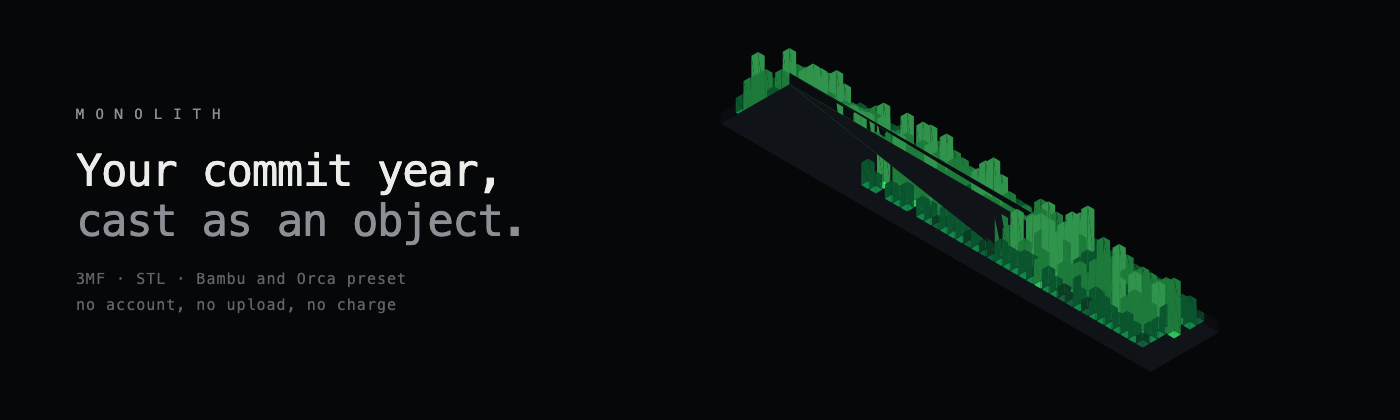
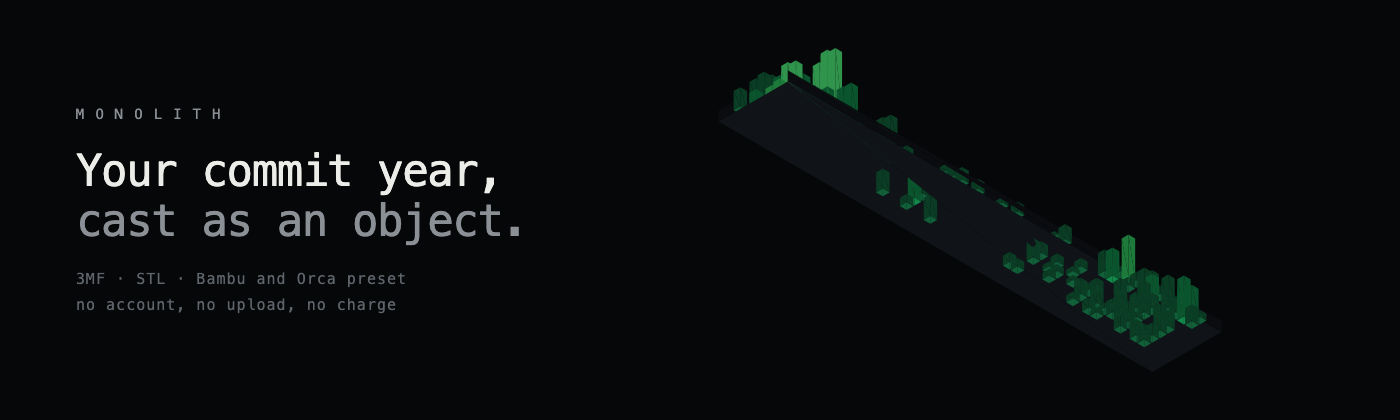
fix: draw every asset from the measured year, and write down what is broken
The demo and the landing quoted a print that does not exist. Both drew
syntheticYear(), an invented year with 2,586 contributions, while the captions
around them named the real one. That object is 40 g and six to nine hours; the
year the estimator was actually calibrated against is 22 g and four hours on a
stock 0.4 mm nozzle, which Bambu Studio confirms at 4h00 and 17.7 cm3 against
the estimator's 17.8.

The frozen year moves from test/fixtures to data/, and the banner, the share
card and the demo all build from it. The demo's log lines, dimensions and
print numbers are read off that object rather than typed in, so no rendered
image can claim a denser piece than the one that was sliced.

The README gains a roadmap that says plainly what does not work yet, starting
with multi colour: the 3MF splits the geometry per level but carries no
filament assignment at all, so two and four colour are a manual step in the
object list and the slot choice never reaches the model.

Changed region(s): [[0.5221, 0.1238, 0.86, 0.8357]]

diff --git a/remotion/Demo.tsx b/remotion/Demo.tsx
@@ -1,8 +1,8 @@
 import React, { useMemo } from "react";
 import { AbsoluteFill, Sequence, interpolate, useCurrentFrame, useVideoConfig } from "remotion";
-import { Monolith } from "./Monolith";
+import { Monolith, assetYear } from "./Monolith";
 import { buildMonolith, SIZES } from "../src/lib/build";
-import { syntheticYear } from "../src/lib/contributions";
+import { computeStats } from "../src/lib/contributions";
 import { printableParts } from "../src/lib/parts";
 import {
   estimate,
@@ -24,7 +24,6 @@ import type { Variant } from "../src/lib/types";
  * behaviour the app does not have.
  */
 
-const HANDLE = "noluyorAbi";
 const FPS = 30;
 const s = (seconds: number) => Math.round(seconds * FPS);
 
@@ -42,13 +41,21 @@ const FORMS: { variant: Variant; label: string; note: string }[] = [
   { variant: "spine", label: "SPINE", note: "weeks stacked along a rib" },
 ];
 
+/** Read off the object the video actually draws, never typed by hand. */
+const YEAR = assetYear();
+const HANDLE = YEAR.login;
+const MESH = buildMonolith(YEAR, { variant: "skyline", sizeMm: 180, label: true });
+const STATS = computeStats(YEAR);
+const NUM = (n: number) => n.toLocaleString("en-GB");
+const DIMS = `${MESH.size.x.toFixed(0)} x ${MESH.size.y.toFixed(0)} mm`;
+
 const LOG: [string, string][] = [
   ["resolving", HANDLE],
-  ["fetching", "365 days of 2025"],
-  ["found", "1,745 contributions"],
-  ["extruding", "4,608 triangles"],
+  ["fetching", `${YEAR.days.length} days of ${YEAR.year}`],
+  ["found", `${NUM(STATS.total)} contributions`],
+  ["extruding", `${NUM(MESH.triangles)} triangles`],
   ["welding", "base plate and signature"],
-  ["ready", "180 x 29 mm"],
+  ["ready", DIMS],
 ];
 
 /** The chrome every scene shares: wordmark, and a caption for what is on show. */
@@ -173,11 +180,10 @@ const Reveal: React.FC = () => {
   });
 
   return (
-    <Frame step="03 · OBJECT" caption="1,745 contributions · 365 days · 180 x 29 mm">
+    <Frame step="03 · OBJECT" caption={`${NUM(STATS.total)} contributions · ${YEAR.days.length} days · ${DIMS}`}>
       <div style={{ fontSize: 40, letterSpacing: -1 }}>{HANDLE}</div>
       <div style={{ marginTop: 8, fontSize: 15, letterSpacing: 4, color: DIM }}>2025 · SKYLINE</div>
       <Monolith
-        seed={HANDLE}
         reveal={reveal}
         width={width - 180}
         height={380}
@@ -198,7 +204,6 @@ const Forms: React.FC = () => {
       <Chips items={FORMS.map((f) => f.label)} activeIndex={index} />
       <Monolith
         key={form.variant}
-        seed={HANDLE}
         variant={form.variant}
         width={width - 200}
         height={400}
@@ -231,7 +236,7 @@ const Sizes: React.FC = () => {
           const tall = (size.mm / 260) * 250;
           return (
             <div key={size.id} style={{ opacity: i === index ? 1 : 0.24, textAlign: "center" }}>
-              <Monolith seed={HANDLE} width={tall * 1.7} height={tall} />
+              <Monolith width={tall * 1.7} height={tall} />
               <div style={{ fontSize: 14, letterSpacing: 3, color: i === index ? FOG : GHOST }}>
                 {size.mm} MM
               </div>
@@ -255,7 +260,6 @@ const Finishes: React.FC = () => {
       <Chips items={shown.map((p) => p.name.toUpperCase())} activeIndex={index} />
       <Monolith
         key={palette.id}
-        seed={HANDLE}
         palette={palette}
         width={width - 200}
         height={380}
@@ -267,11 +271,7 @@ const Finishes: React.FC = () => {
 
 const PrintSheet: React.FC = () => {
   const numbers = useMemo(() => {
-    const mesh = buildMonolith(syntheticYear(HANDLE, 2025), {
-      variant: "skyline",
-      sizeMm: 180,
-      label: true,
-    });
+    const mesh = MESH;
     const material = materialById("pla");
     const quality = qualityById("standard");
     const est = estimate(printableParts(mesh), material, quality);
@@ -373,7 +373,7 @@ const Close: React.FC = () => {
   return (
     <Frame step="09 · YOURS" caption="source available under PolyForm Noncommercial · models CC BY 4.0">
       <div style={{ display: "flex", alignItems: "center", justifyContent: "center", flex: 1 }}>
-        <Monolith seed={HANDLE} width={width - 320} height={300} />
+        <Monolith width={width - 320} height={300} />
       </div>
       <div style={{ fontSize: 30, letterSpacing: -0.5, marginBottom: 14 }}>
         Your commit year, <span style={{ color: DIM }}>cast as an object.</span>

diff --git a/remotion/Monolith.tsx b/remotion/Monolith.tsx
@@ -1,6 +1,8 @@
 import React, { useMemo } from "react";
 import { buildMonolith } from "../src/lib/build";
-import { syntheticYear } from "../src/lib/contributions";
+import { yearFromDays } from "../src/lib/contributions";
+import type { Day } from "../src/lib/types";
+import frozen from "../data/contributions-2025.json";
 import type { BuiltMesh, Variant } from "../src/lib/types";
 
 /**
@@ -60,8 +62,17 @@ function faces(mesh: BuiltMesh, reveal: number, palette: Palette): Face[] {
   return out.sort((a, b) => a.depth - b.depth);
 }
 
+/**
+ * The year every asset draws: noluyorAbi's real 2025, frozen in data/ and
+ * shared with the calibration test. Rendering an invented year here would put
+ * a denser object and a longer print time in front of people than the one the
+ * slicer was measured against.
+ */
+export function assetYear() {
+  return yearFromDays(frozen.login, frozen.year, frozen.days as Day[]);
+}
+
 export const Monolith: React.FC<{
-  seed: string;
   width: number;
   height: number;
   variant?: Variant;
@@ -70,11 +81,11 @@ export const Monolith: React.FC<{
   /** Defaults to the finish the viewer opens with. */
   palette?: Palette;
   style?: React.CSSProperties;
-}> = ({ seed, width, height, variant = "skyline", reveal = 1, palette, style }) => {
+}> = ({ width, height, variant = "skyline", reveal = 1, palette, style }) => {
   const finish = palette ?? defaultPalette();
   const mesh = useMemo(
-    () => buildMonolith(syntheticYear(seed, 2025), { variant, sizeMm: 180, label: false }),
-    [seed, variant],
+    () => buildMonolith(assetYear(), { variant, sizeMm: 180, label: false }),
+    [variant],
   );
 
   // The viewBox is fixed to the fully grown object so a rising animation does

diff --git a/src/components/Prompt.tsx b/src/components/Prompt.tsx
@@ -283,11 +283,13 @@ export function Prompt({
               </li>
             ))}
           </ul>
-          {/* The numbers the print sheet reports for the default object, so the
-            promise on the landing is the one the download keeps. */}
+          {/* Bambu Studio's own numbers for the 180 mm skyline of a real year,
+            0.4 nozzle, 0.16 mm, PLA: 4h00 and 17.7 cm3. Not the estimator's
+            output, and not an invented year, which is how this line first came
+            to read six hours. */}
           <p className="text-[0.72rem] leading-relaxed text-mute">
-            A 180 mm shelf piece is about six hours on a stock Bambu profile and
-            roughly one euro of filament.
+            A 180 mm shelf piece slices to about four hours and 22 g of filament
+            on a stock 0.4 mm Bambu profile. Roughly fifty cents.
           </p>
         </motion.div>
       </motion.div>

diff --git a/remotion/Banner.tsx b/remotion/Banner.tsx
@@ -48,7 +48,7 @@ export const Banner: React.FC = () => (
         justifyContent: "center",
       }}
     >
-      <Monolith seed="banner" width={700} height={324} />
+      <Monolith width={700} height={324} />
     </div>
   </AbsoluteFill>
 );

diff --git a/test/calib.test.ts b/test/calib.test.ts
@@ -5,7 +5,7 @@ import { splitByLevel } from "@/lib/parts";
 import { estimate, materialById, qualityById } from "@/lib/print";
 import { yearFromDays } from "@/lib/contributions";
 import type { ContributionYear, Day } from "@/lib/types";
-import fixture from "./fixtures/contributions-2025.json";
+import fixture from "../data/contributions-2025.json";
 
 /**
  * Measured with Bambu Studio 02.00.03.54 slicing the frozen year below at

diff --git a/test/routes.test.ts b/test/routes.test.ts
@@ -9,7 +9,7 @@ import { MAX_SIZE_MM, MIN_SIZE_MM, modelQuery, parseModelRequest } from "@/lib/r
 import { DEFAULT_MATERIAL_ID, DEFAULT_PRINTER_ID, DEFAULT_QUALITY_ID } from "@/lib/print";
 import { yearFromDays } from "@/lib/contributions";
 import type { Day } from "@/lib/types";
-import fixture from "./fixtures/contributions-2025.json";
+import fixture from "../data/contributions-2025.json";
 
 /**
  * The download contract is the public surface of this project. These tests

diff --git a/remotion/OgCard.tsx b/remotion/OgCard.tsx
@@ -25,7 +25,6 @@ export const OgCard: React.FC = () => {
     >
       {/* The object gets the right two thirds and is never behind the type. */}
       <Monolith
-        seed="monolith-og"
         width={720}
         height={430}
         style={{ position: "absolute", right: 24, top: 108 }}

diff --git a/README.md b/README.md
@@ -103,7 +103,7 @@ Three findings came out of holding the project to that standard, and each one ch
 
 Raising the text is what fixed it. The widely repeated claim that this needs the arachne wall generator turned out to be false at the default size, where both generators print the lettering fine. Arachne is set because it recovers roughly three times more below the threshold, but as an improvement, not a rescue, and small sizes carry a warning rather than a promise.
 
-The filament and time estimates are fitted the same way, against three real slices at 0.12, 0.16 and 0.20 mm. The fit reproduces all three to within 0.3%, and `test/calib.test.ts` fails if it ever drifts.
+The filament and time estimates are fitted the same way, against three real slices of the same year at 0.12, 0.16 and 0.20 mm, on a P1S with the stock 0.4 mm nozzle. At 0.16 mm that object is 4h00 and 17.7 cm3 of PLA, about 22 g, and the estimator puts it at 17.8 cm3. The fit reproduces all three slices to within 0.3%, and `test/calib.test.ts` fails if it ever drifts. The year those slices used is committed at `data/contributions-2025.json`, and it is the same year the banner, the share card and the demo draw, so no image here shows a denser object than the one that was measured.
 
 ## <img src="assets/icons/code.svg" width="16" align="center"> How the geometry works
 
@@ -151,6 +151,26 @@ If GitHub cannot be reached at all, the app falls back to a deterministic synthe
 ## <img src="assets/icons/printer.svg" width="16" align="center"> Legibility
 
 A page this dark fails quietly, so the values are measured rather than eyeballed. Every text colour clears WCAG AA against the page: the token carrying the smallest uppercase labels sits at 6.3:1, body copy at 8.3:1, and anything bounding a control at 3.4:1, above the 3:1 WCAG 1.4.11 asks for. Readouts sit over a live 3D canvas, so they carry their own gradient scrim; measured against a bright tower directly behind them, the worst row still reads at 7.2:1. The object is nearly as dark as the page, so a Fresnel term traces its silhouette and a pool of light on the floor gives the shape something to sit against. Portrait screens swing the camera down the object's long axis, so a phone gets the same object at usable size.
+
+## <img src="assets/icons/sliders.svg" width="16" align="center"> Roadmap, and what is honestly still broken
+
+Ordered by how much it costs you today.
+
+**Multi colour is only half wired.** The 3MF arrives split into one solid per contribution level, which is what makes a per slot assignment possible at all, but the file carries no colour and no filament data. `basematerials` is inert in every slicer checked, and a hand written Bambu project file segfaults Bambu Studio, so nothing in the file says "peak days go in slot 2". Two colour and four colour are therefore a manual assignment in the object list, and the slot choice in the interface only reaches the printed card and the preset, never the model. Next: emit a real Bambu and Orca project 3MF, `model_settings.config` with a per object extruder plus the production extension UUIDs, behind a test that loads it through the CLI, and fall back to the plain 3MF when it cannot be produced.
+
+**Estimates are fitted on one shape.** The shell, bulk and flow constants come from three slices of the 180 mm skyline at 0.12, 0.16 and 0.20 mm, 0.4 mm nozzle. Ring, wave and spine have a different surface to volume ratio, so for them the numbers are extrapolation wearing a band. Next: slice every form at every size and fit per form, or say per form how far the fit was tested.
+
+**Nothing slices in CI.** `npm run verify:print` needs Bambu Studio installed locally, so the strongest test in the repository only ever runs on a machine that happens to have it. Next: pin a headless slicer in the workflow, or at minimum assert the 3MF against a schema.
+
+**Only Bambu and Orca get a preset.** PrusaSlicer, Cura and everything else get the geometry and a text card listing every setting by hand. Next: generate a PrusaSlicer `.ini` from the same source list.
+
+**The engraved handle is size dependent.** Below roughly 150 mm the font pixel drops under the 0.42 mm line a 0.4 mm nozzle lays down, and the interface warns instead of solving it. Next: scale the lettering with the object so it stays above one line width at every size.
+
+**Without a token the data path is fragile.** No `GITHUB_TOKEN` means an HTML scrape that GitHub rate limits, and the app then serves a clearly labelled sample year rather than failing. Correct, but a fallback is not a feature.
+
+**Portrait is tolerated, not designed.** The camera swings down the object's long axis so a phone gets a usable object, but the dock crowds and the idle object is small. Next: a layout that is native to the aspect rather than the same one bent.
+
+**There is no end to end test.** Geometry, exporters and estimates are covered; the flow from typing a handle to a downloaded zip is not.
 
 ## <img src="assets/icons/scale.svg" width="16" align="center"> Licence
 